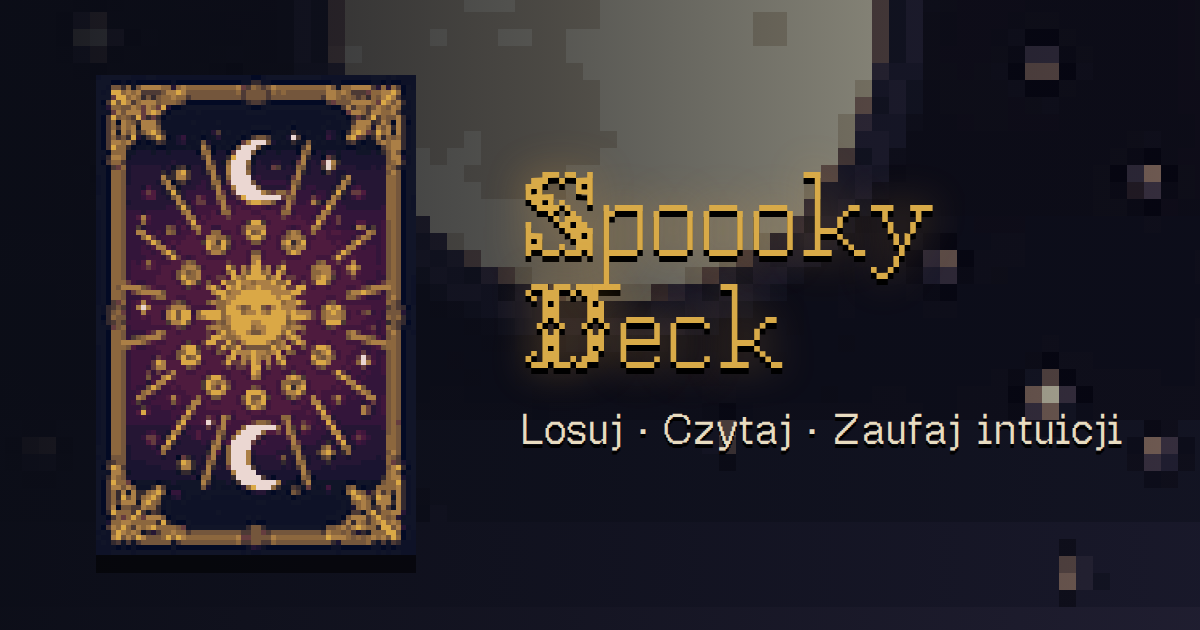
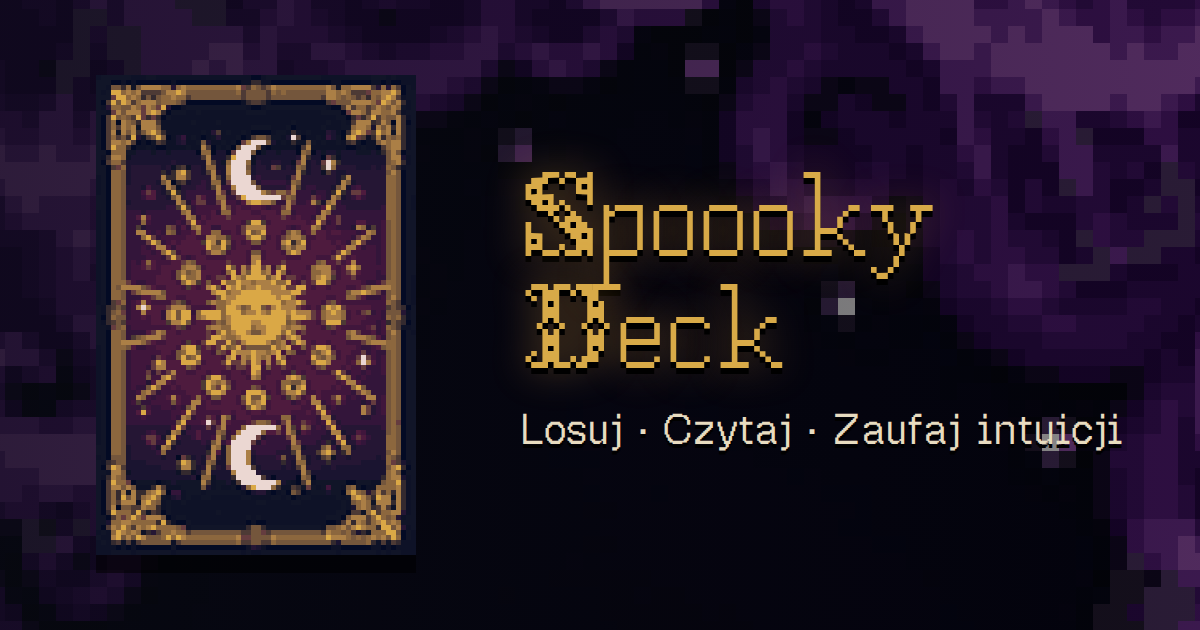
Share graphic with the splash background; drop the word 'pikselowa' from descriptions

diff --git a/sw.js b/sw.js
@@ -1,5 +1,5 @@
 // Service worker Spoooky Deck. Plik sw.js jest generowany przez tools/build_sw.py (wersja = skrót zawartości plików).
-const VERSION = '28d3d26da1';
+const VERSION = '6aadcd02c5';
 const CACHE = 'spooooky-' + VERSION;
 const FILES = ["./", "css/cards.css", "css/fonts.css", "css/style.css", "css/theme.css", "data/cards.json", "data/grammar.en.json", "data/grammar.pl.json", "data/ui.en.json", "data/ui.pl.json", "data/zodiac.en.json", "data/zodiac.pl.json", "fonts/CrossStitch-Regular.ttf", "fonts/OldeTome.ttf", "fonts/geistpixel-latin-ext.woff2", "fonts/geistpixel-latin.woff2", "fonts/jacquard12-latin-ext.woff2", "fonts/jacquard12-latin.woff2", "img/cards/ar00.png", "img/cards/ar01.png", "img/cards/ar02.png", "img/cards/ar03.png", "img/cards/ar04.png", "img/cards/ar05.png", "img/cards/ar06.png", "img/cards/ar07.png", "img/cards/ar08.png", "img/cards/ar09.png", "img/cards/ar10.png", "img/cards/ar11.png", "img/cards/ar12.png", "img/cards/ar13.png", "img/cards/ar14.png", "img/cards/ar15.png", "img/cards/ar16.png", "img/cards/ar17.png", "img/cards/ar18.png", "img/cards/ar19.png", "img/cards/ar20.png", "img/cards/ar21.png", "img/cards/cu01.png", "img/cards/cu02.png", "img/cards/cu03.png", "img/cards/cu04.png", "img/cards/cu05.png", "img/cards/cu06.png", "img/cards/cu07.png", "img/cards/cu08.png", "img/cards/cu09.png", "img/cards/cu10.png", "img/cards/cu11.png", "img/cards/cu12.png", "img/cards/cu13.png", "img/cards/cu14.png", "img/cards/pe01.png", "img/cards/pe02.png", "img/cards/pe03.png", "img/cards/pe04.png", "img/cards/pe05.png", "img/cards/pe06.png", "img/cards/pe07.png", "img/cards/pe08.png", "img/cards/pe09.png", "img/cards/pe10.png", "img/cards/pe11.png", "img/cards/pe12.png", "img/cards/pe13.png", "img/cards/pe14.png", "img/cards/sw01.png", "img/cards/sw02.png", "img/cards/sw03.png", "img/cards/sw04.png", "img/cards/sw05.png", "img/cards/sw06.png", "img/cards/sw07.png", "img/cards/sw08.png", "img/cards/sw09.png", "img/cards/sw10.png", "img/cards/sw11.png", "img/cards/sw12.png", "img/cards/sw13.png", "img/cards/sw14.png", "img/cards/wa01.png", "img/cards/wa02.png", "img/cards/wa03.png", "img/cards/wa04.png", "img/cards/wa05.png", "img/cards/wa06.png", "img/cards/wa07.png", "img/cards/wa08.png", "img/cards/wa09.png", "img/cards/wa10.png", "img/cards/wa11.png", "img/cards/wa12.png", "img/cards/wa13.png", "img/cards/wa14.png", "img/emoji/U+1F30D.png", "img/emoji/U+1F319.png", "img/emoji/U+1F377.png", "img/emoji/U+1F3C6.png", "img/emoji/U+1F4A7.png", "img/emoji/U+1F4A8.png", "img/emoji/U+1F507.png", "img/emoji/U+1F50A.png", "img/emoji/U+1F525.png", "img/emoji/U+1F53A.png", "img/emoji/U+1F53B.png", "img/emoji/U+1FA99.png", "img/emoji/U+2648.png", "img/emoji/U+2649.png", "img/emoji/U+264A.png", "img/emoji/U+264B.png", "img/emoji/U+264C.png", "img/emoji/U+264D.png", "img/emoji/U+264E.png", "img/emoji/U+264F.png", "img/emoji/U+2650.png", "img/emoji/U+2651.png", "img/emoji/U+2652.png", "img/emoji/U+2653.png", "img/emoji/U+2694.png", "img/emoji/U+2728.png", "img/icons/apple-touch-icon.png", "img/icons/favicon-16.png", "img/icons/favicon-32.png", "img/icons/icon-192.png", "img/icons/icon-512.png", "img/icons/icon-maskable-512.png", "img/og.png", "img/ui/back.png", "img/ui/bg-card.png", "img/ui/bg-form.png", "img/ui/bg-intro.png", "img/ui/bg-pick.png", "img/ui/bg-read.png", "img/ui/btn-alt.png", "img/ui/btn-white.png", "img/ui/btn.png", "img/ui/candle.png", "img/ui/cardframe.png", "img/ui/cursor.png", "img/ui/emblem.png", "img/ui/frame.png", "img/ui/ic-candle.png", "img/ui/ic-stars.png", "img/ui/ic-tower.png", "img/ui/picture-frame.png", "img/ui/shine.png", "index.html", "js/app.js", "js/audio.js", "js/deck.js", "js/fx.js", "js/oracle.js", "js/share.js", "js/vendor/seedrandom.min.js", "js/vendor/tracery.js", "js/vendor/zzfx.js", "manifest.webmanifest"];
 

diff --git a/index.html b/index.html
@@ -9,18 +9,18 @@
 <link rel="icon" href="favicon.ico" sizes="any">
 <link rel="icon" type="image/png" sizes="32x32" href="img/icons/favicon-32.png">
 <link rel="icon" type="image/png" sizes="16x16" href="img/icons/favicon-16.png">
-<meta name="description" content="Mroczna, pikselowa wyrocznia tarota dla firm. Wylosuj kartę i sprawdź, co czeka Twoją firmę.">
+<meta name="description" content="Mroczna wyrocznia tarota dla firm. Wylosuj kartę i sprawdź, co czeka Twoją firmę.">
 <meta property="og:type" content="website">
 <meta property="og:site_name" content="Spoooky Deck">
 <meta property="og:title" content="Spoooky Deck">
-<meta property="og:description" content="Losuj · Czytaj · Zaufaj intuicji. Pikselowa wyrocznia tarota dla firm.">
+<meta property="og:description" content="Losuj · Czytaj · Zaufaj intuicji. Wyrocznia tarota dla firm.">
 <meta property="og:url" content="https://whosz.pl/tarot/">
 <meta property="og:image" content="https://whosz.pl/tarot/img/og.png?v=2">
 <meta property="og:image:width" content="1200">
 <meta property="og:image:height" content="630">
 <meta name="twitter:card" content="summary_large_image">
 <meta name="twitter:title" content="Spoooky Deck">
-<meta name="twitter:description" content="Losuj · Czytaj · Zaufaj intuicji. Pikselowa wyrocznia tarota dla firm.">
+<meta name="twitter:description" content="Losuj · Czytaj · Zaufaj intuicji. Wyrocznia tarota dla firm.">
 <meta name="twitter:image" content="https://whosz.pl/tarot/img/og.png?v=2">
 <link rel="apple-touch-icon" href="img/icons/apple-touch-icon.png">
 <meta name="apple-mobile-web-app-capable" content="yes">
@@ -30,10 +30,10 @@
 <link rel="preload" href="fonts/jacquard12-latin-ext.woff2" as="font" type="font/woff2" crossorigin>
 <link rel="preload" href="fonts/geistpixel-latin.woff2" as="font" type="font/woff2" crossorigin>
 <link rel="preload" href="fonts/geistpixel-latin-ext.woff2" as="font" type="font/woff2" crossorigin>
-<link rel="stylesheet" href="css/fonts.css?v=140">
-<link rel="stylesheet" href="css/style.css?v=140">
-<link rel="stylesheet" href="css/cards.css?v=140">
-<link rel="stylesheet" href="css/theme.css?v=140">
+<link rel="stylesheet" href="css/fonts.css?v=141">
+<link rel="stylesheet" href="css/style.css?v=141">
+<link rel="stylesheet" href="css/cards.css?v=141">
+<link rel="stylesheet" href="css/theme.css?v=141">
 </head>
 <body>
 <div id="phone">
@@ -125,6 +125,6 @@
 <script src="js/vendor/seedrandom.min.js"></script>
 <script src="js/vendor/tracery.js"></script>
 <script src="js/vendor/zzfx.js"></script>
-<script type="module" src="js/app.js?v=140"></script>
+<script type="module" src="js/app.js?v=141"></script>
 </body>
 </html>

diff --git a/README.md b/README.md
@@ -2,7 +2,7 @@
 
 ![Spoooky Deck: rewers karty, tytuł i hasło](img/og.png)
 
-Mroczna, pikselowa wyrocznia tarota dla firm. Wpisujesz imię, znak zodiaku i firmę, wybierasz kartę z wachlarza 78 kart, a wróżba zawsze kończy się wnioskiem, że firmie przyda się projektant. Na końcu jest link do oferty [whosz.pl](https://whosz.pl/offer/).
+Mroczna wyrocznia tarota dla firm. Wpisujesz imię, znak zodiaku i firmę, wybierasz kartę z wachlarza 78 kart, a wróżba zawsze kończy się wnioskiem, że firmie przyda się projektant. Na końcu jest link do oferty [whosz.pl](https://whosz.pl/offer/).
 
 Działa na żywo: https://whosz.pl/tarot/
 
